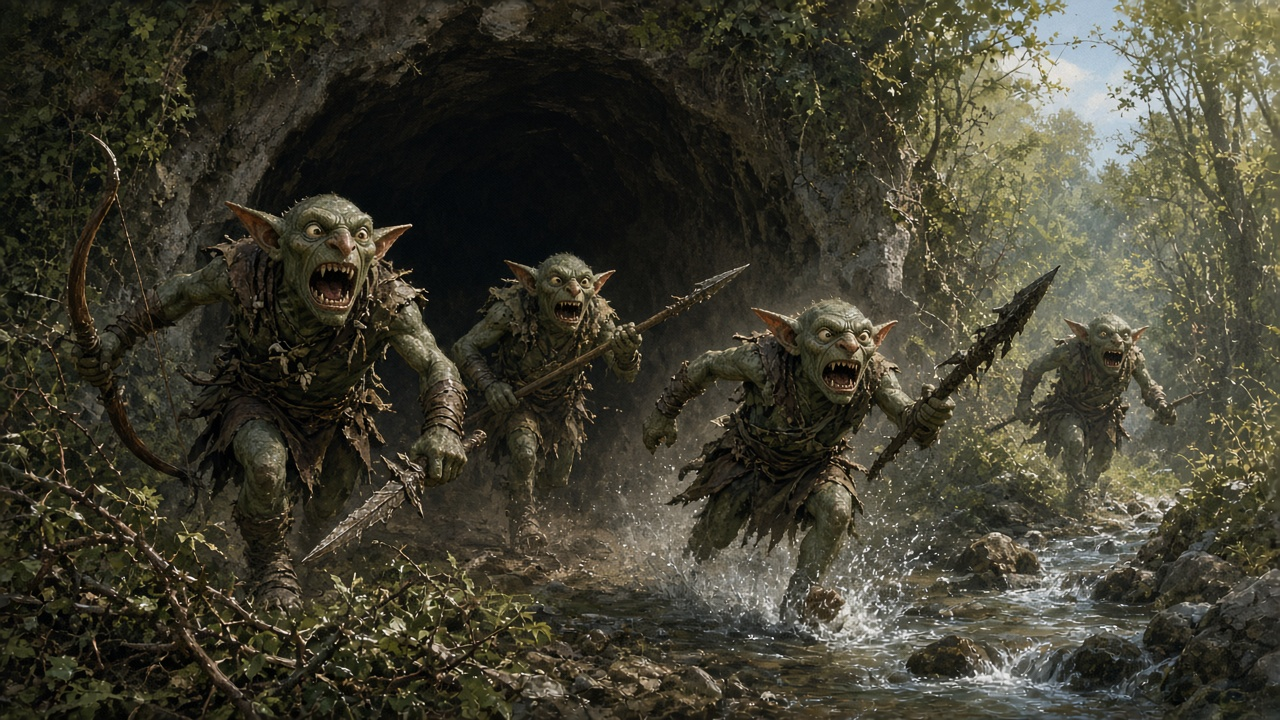
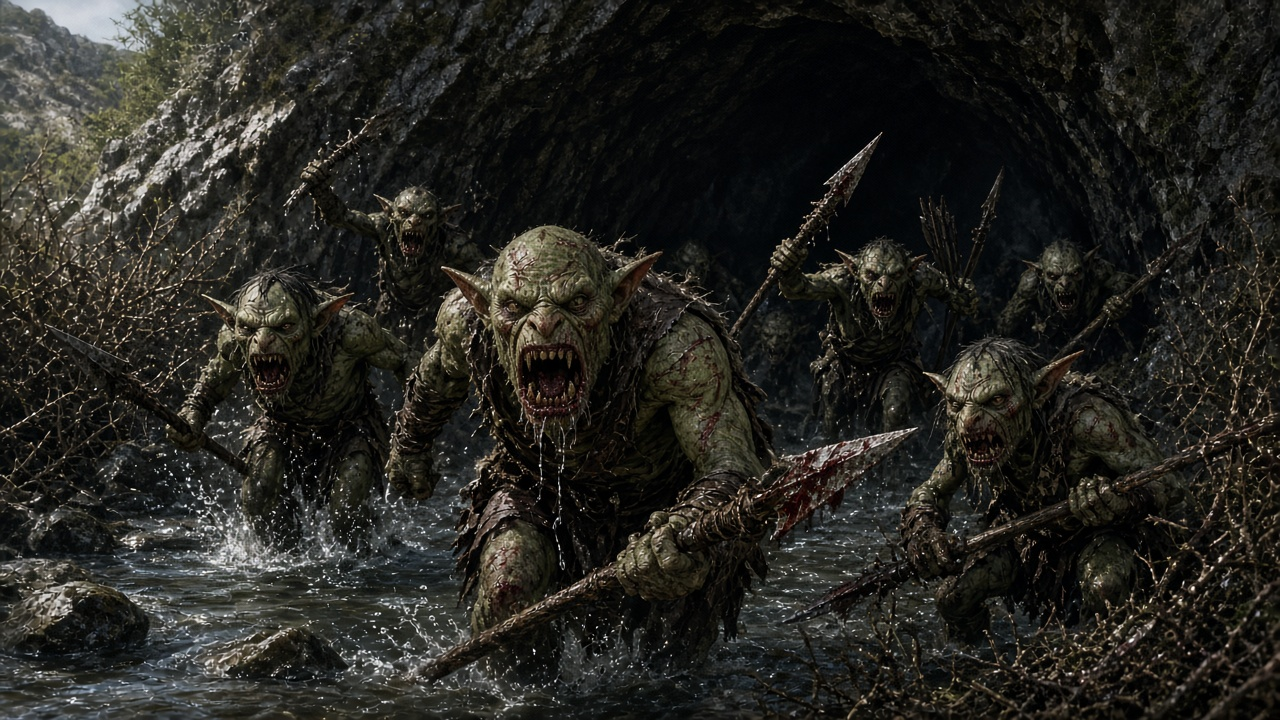
docs: sharpen Sera and the combat plates
Adult table. Sera wears a fitted provocative dress, and the ambush, cave, and Klarg plates are harsher.

diff --git a/decisoes/03-relogio-viva-ou-morta.md b/decisoes/03-relogio-viva-ou-morta.md
@@ -2,7 +2,7 @@
 
 Abre isto quando olharem o repecho sul da [área 6](../historia-principal/10-area-6-sera.md). As marcas estão em [00](../historia-principal/00-sera-e-relogio.md).
 
-A lámina do fracasso mostra-a morta, vestido rasgado e sujo, coberta. Pode ir para a mesa.
+A lámina do fracasso mostra-a morta, vestido rasgado, sangue seco, amarrada ao poste.
 
 ## 5, 4 ou 3 marcas — viva
 
@@ -10,7 +10,7 @@ A lámina do fracasso mostra-a morta, vestido rasgado e sujo, coberta. Pode ir p
 
 ![Sera viva](../laminas/10-sera-viva.jpg)
 
-> Doña Sera está atada al poste. El vestido burdeos sigue entero en lo que importa: sucio, abierto en una costura del brazo, el bajo lleno de barro. Tiene un golpe en la mejilla y las muñecas en carne viva. Los mira. Está viva.
+> Doña Sera está atada al poste, los brazos en alto. El vestido burdeos, ya de escote bajo y falda abierta, está rasgado en el hombro y en el muslo, pegado de barro. Tiene el pómulo negro, el labio partido y las muñecas en carne viva. Los mira. Está viva, y todavía parece dueña de sí.
 
 Anda se a segurarem. Pode falar. Se Yeemik ainda está de pé, abre [o trato](04-trato-yeemik.md).
 
@@ -28,7 +28,7 @@ Fica a 1 ponto de golpe. Não anda. Yeemik ainda pode oferecer o trato, se não 
 
 ![Sera morta](../laminas/11-sera-muerta.jpg)
 
-> Llegan tarde. Sera está atada al mismo poste, la cabeza caída, los ojos cerrados. El vestido está desgarrado en el hombro y en el bajo, oscuro de barro, y ya no se mueve. El fuego sigue ardiendo como si nadie hubiera tenido prisa.
+> Llegan tarde. Sera está contra el mismo poste, la cabeza caída, los ojos cerrados. El vestido burdeos sigue siendo el de escote bajo y la falda abierta, ahora sucio, rasgado en la sisa y en el muslo, con sangre seca en la tela, en el pecho y en la muñeca atada. Ya no se mueve. El fuego sigue ardiendo como si nadie hubiera tenido prisa.
 
 Podem levar o corpo. As caixas continuam com Klarg. O final de Phandalin usa o parágrafo escuro em [12](../historia-principal/12-phandalin.md).
 

diff --git a/historia-principal/01-alba-neverwinter.md b/historia-principal/01-alba-neverwinter.md
@@ -18,7 +18,7 @@ Deixa cada jogador dizer quem é, numa frase, enquanto a cidade fica para trás.
 
 ## Ler em voz alta
 
-> Neverwinter todavía está azul. La puerta de la taberna suelta un último golpe de luz sobre las piedras mojadas, y el calor se queda atrás. Dos bueyes esperan. El carro va cargado de sacos de harina, carne salada, barriles de cerveza, pan, empanadas, queso de cabra, faroles y un barril de aceite. Doña Sera Calder está junto a la rueda, capa gris, vestido burdeos, sin un solo brillo de oro. Los mira como quien ya decidió fiarse.
+> Neverwinter todavía está azul. La puerta de la taberna suelta un último golpe de luz sobre las piedras mojadas, y el calor se queda atrás. Dos bueyes esperan. El carro va cargado de sacos de harina, carne salada, barriles de cerveza, pan, empanadas, queso de cabra, faroles y un barril de aceite. Doña Sera Calder está junto a la rueda. El vestido burdeos le marca el cuerpo, el escote es bajo, la falda se abre en un muslo, y la capa corta le cae de los hombros. No lleva joyas. Los mira como quien ya decidió fiarse.
 >
 > «Gundren dijo que el camino es de dos días. Si los bueyes no se emperran, pasado mañana comemos en Phandalin. Yo voy en el carro. Ustedes alrededor. Si algo sale mal, no abandonen la carga… ni a mí.»
 

diff --git a/historia-principal/00-sera-e-relogio.md b/historia-principal/00-sera-e-relogio.md
@@ -8,7 +8,7 @@ Deixa este arquivo aberto a sessão inteira. Marca com um X cada círculo que ca
 
 **Doña Sera Calder**, 41 anos. Sócia de Provisiones de Barthen, em Phandalin. Veio a Neverwinter buscar o carro e não larga a carga com desconhecidos.
 
-Aparência: pele oliva, olhos castanhos, cabelo castanho com fios grisalhos num coque baixo. Vestido burdeos simples, camisa de linho creme, capa cinza, broche de bronze, botas gastas. Sem joias, sem brincos, sem anéis.
+Aparência: 41 anos, pele oliva, olhos castanhos, cabelo castanho com fios grisalhos numa trança solta. Corpo forte, ombros largos, cintura marcada, pernas firmes. Vestido burdeos justo, decote quadrado, manga curta, fenda alta numa coxa, cinto de couro, botas gastas. Capa curta cinza caída nos ombros. Sem joias. É simples, e mesmo assim provocante.
 
 Não combate. Com 5 a 3 marcas, anda se a segurarem. Com 2 ou 1, fica a 1 ponto de golpe e precisa ser carregada.
 
